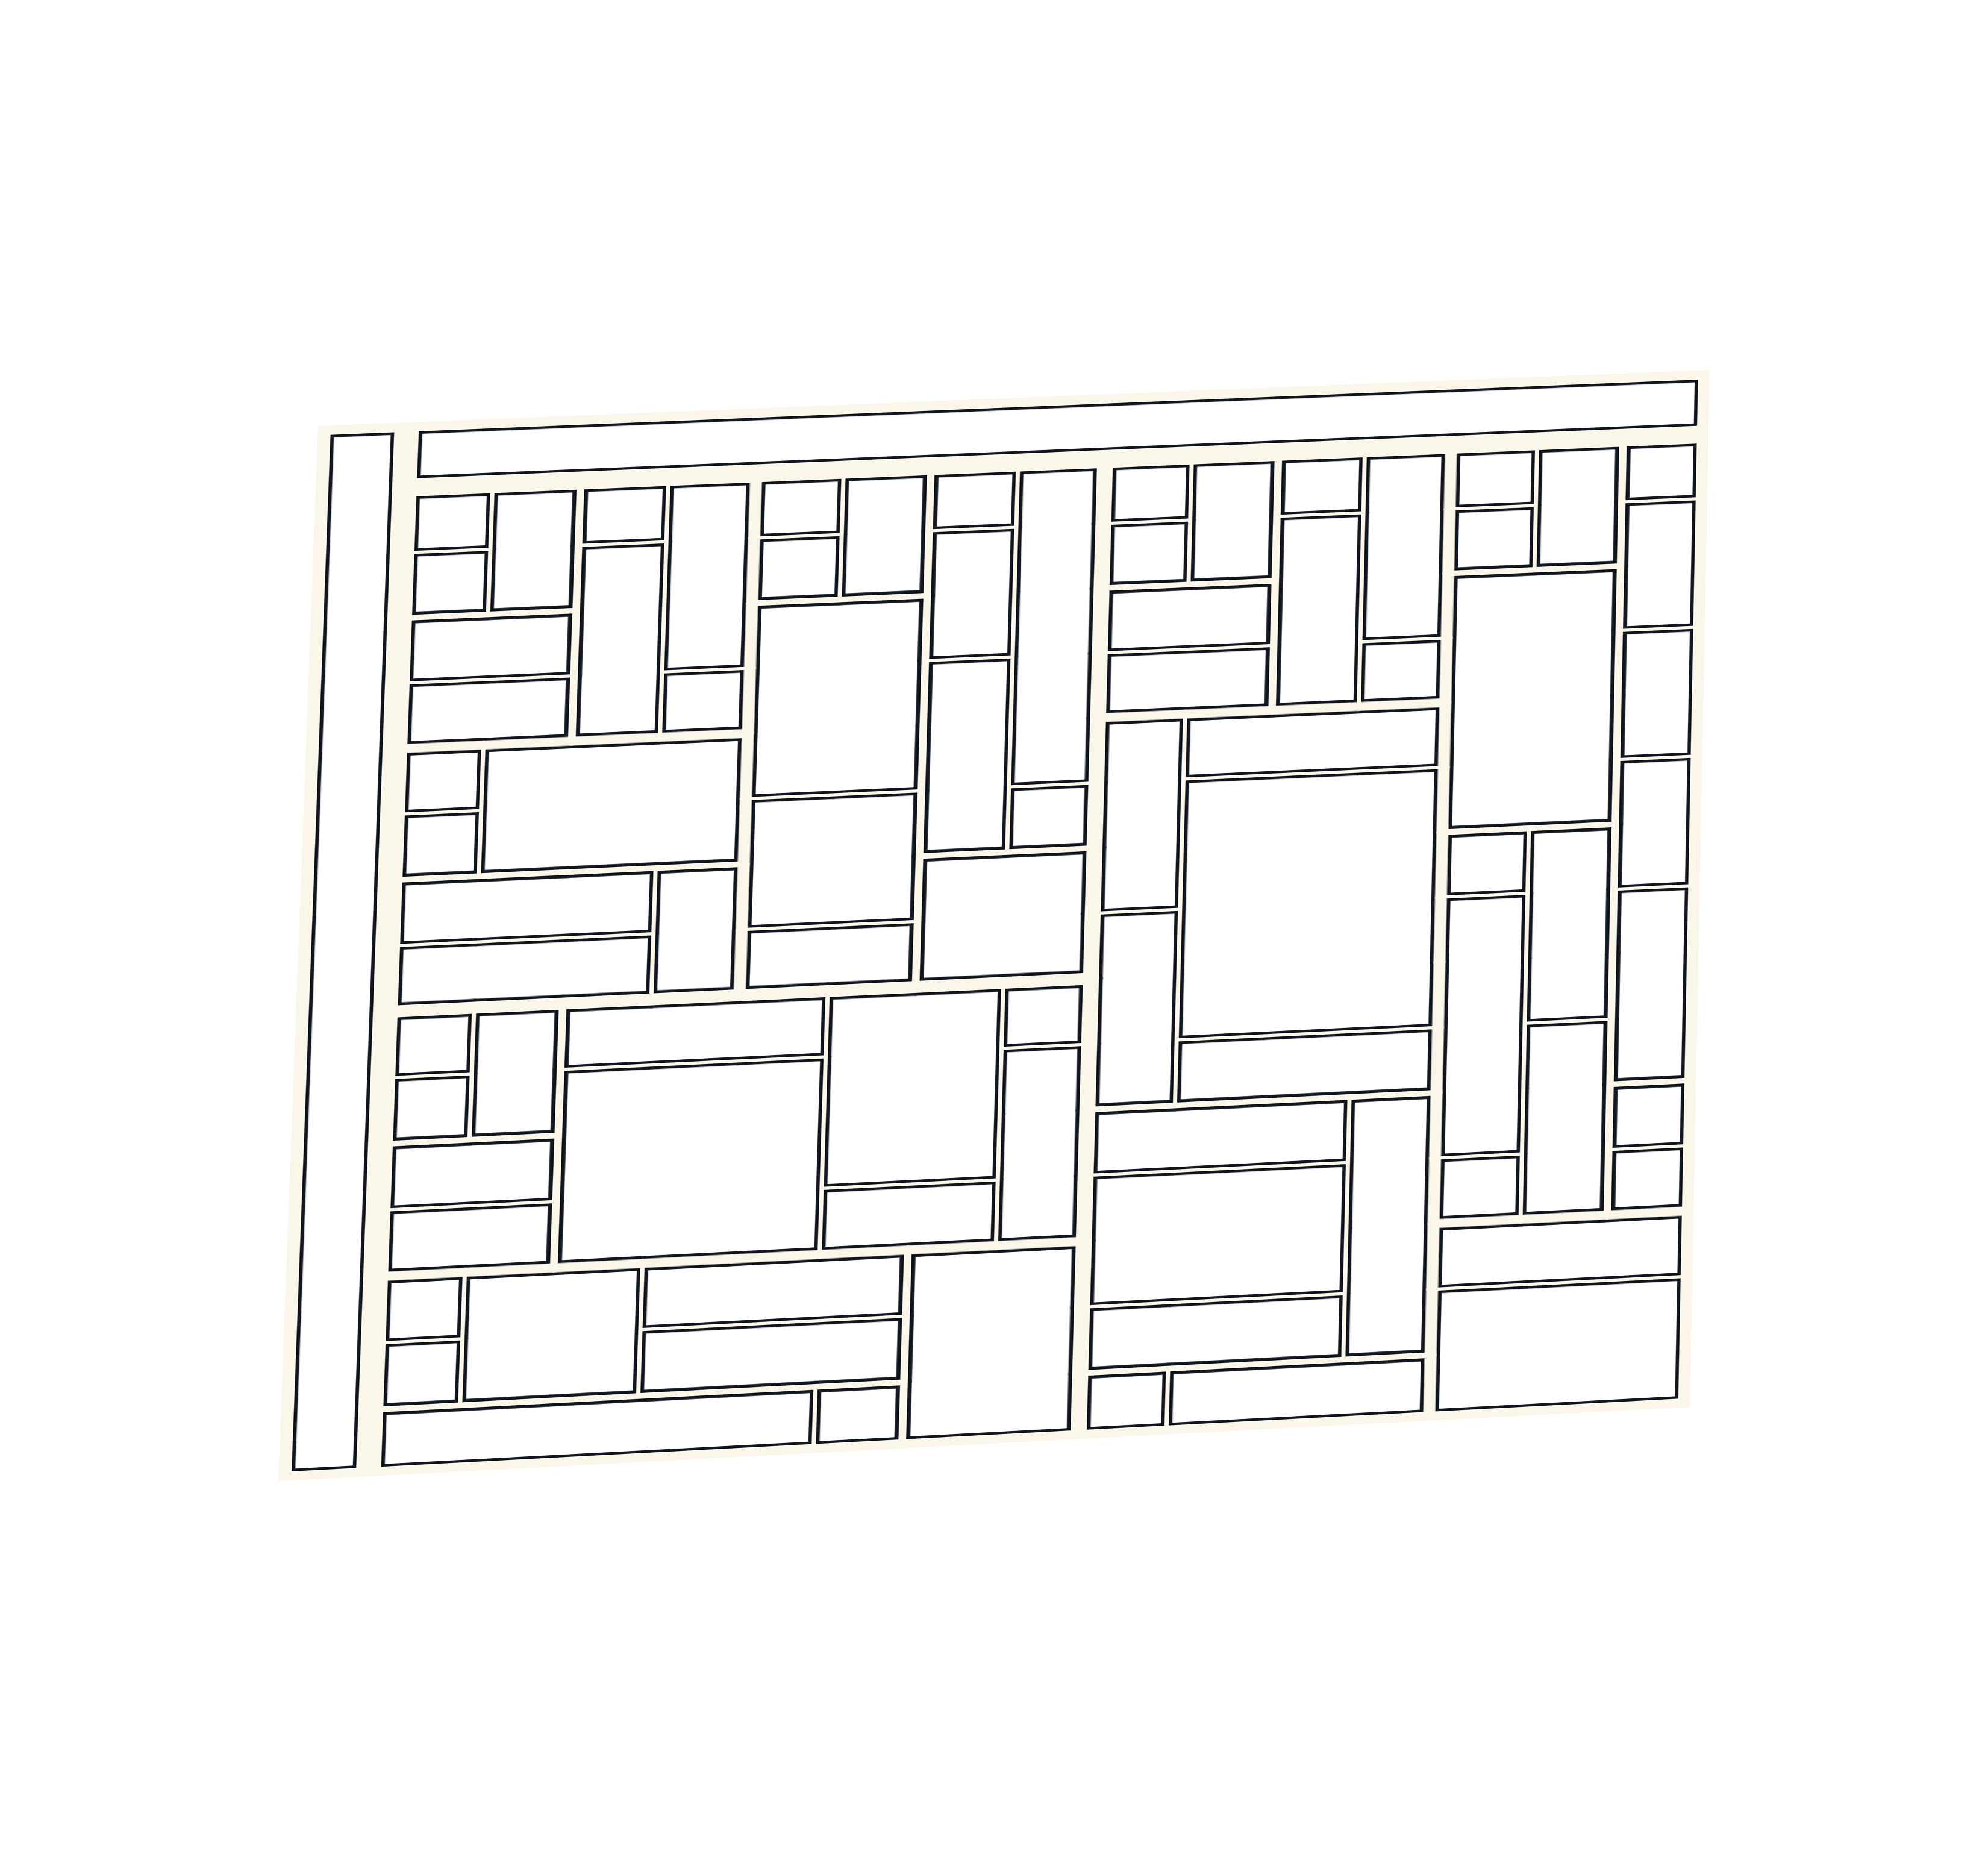
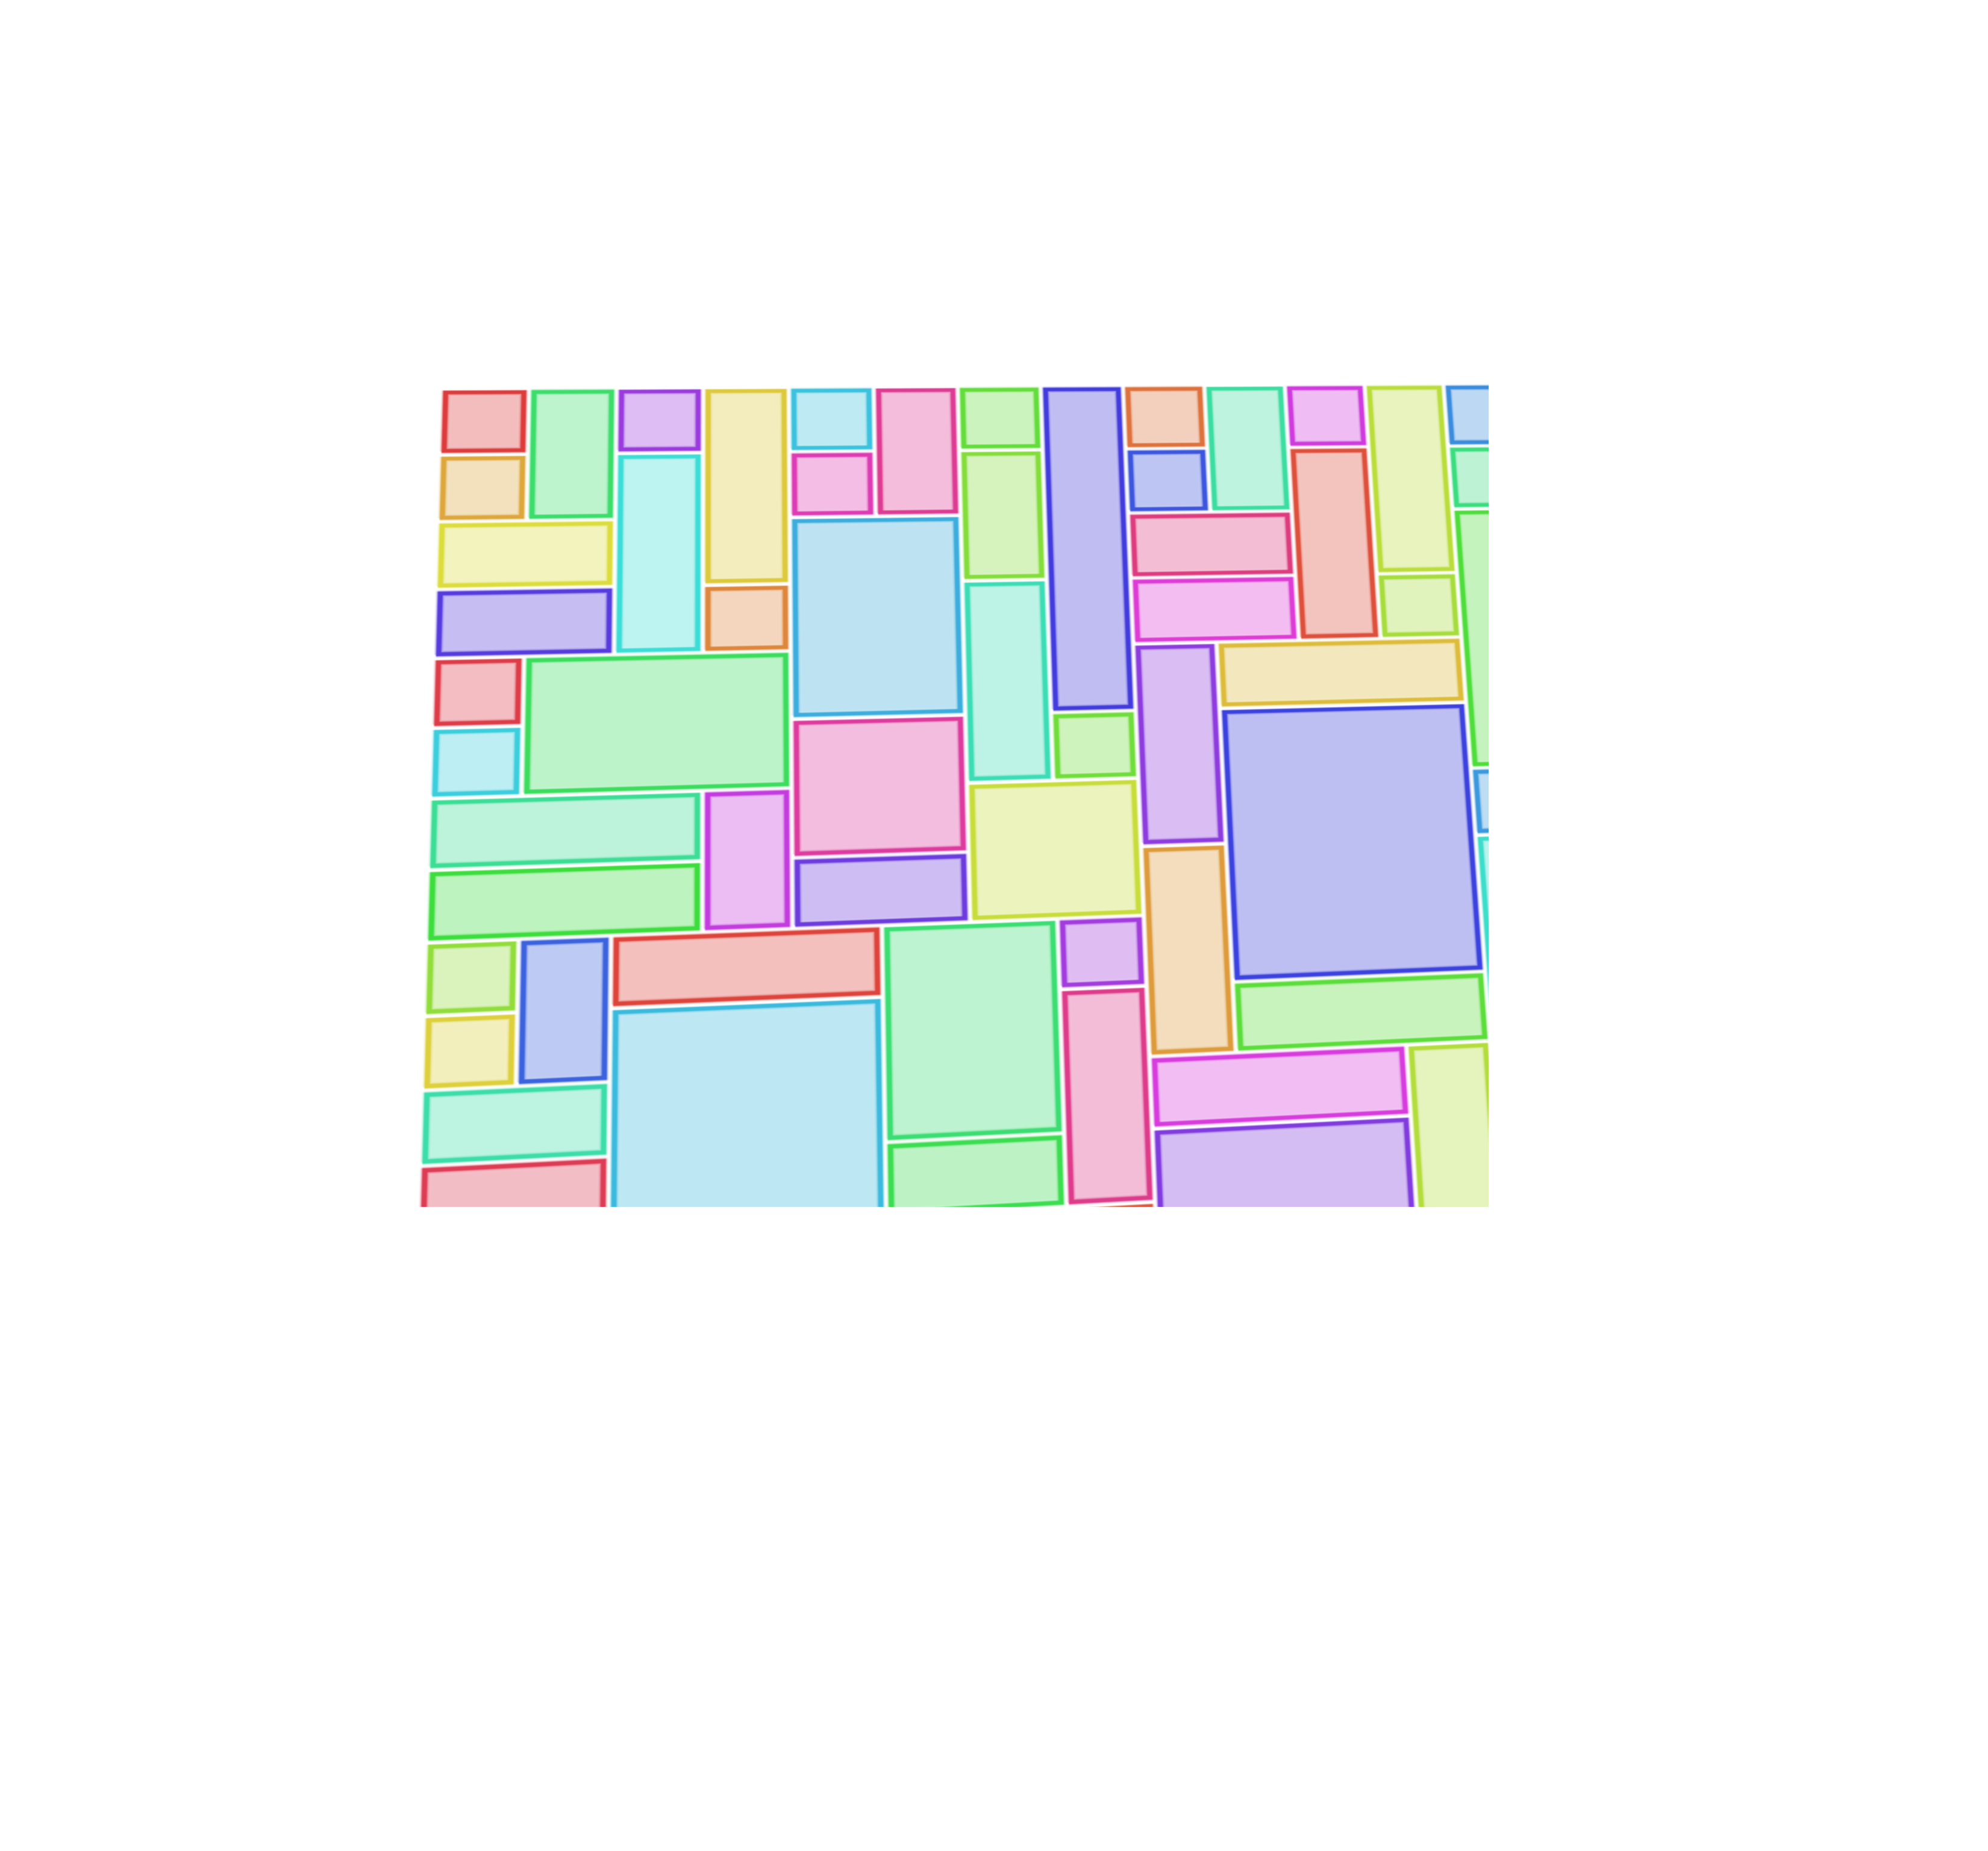
history/quilt: flat-photo dissection page + colored 91-patch overlay
The quilt is exactly a 16x16 canonical Coylean square. Validated against a
new flat, head-on photo (coylean-quilt-doc.png): warping the engine-generated
square (fromUniverseExtents 1,1,16,16, seed margin + result arrows suppressed,
full border) onto its corners lines up cell-for-cell, and region-labeling the
map yields 91 patches, every one a perfect rectangle.

- New coylean-quilt-dissected.html: flat photo with a pure-CSS dissection
  toggle (just the quilt -> trace the seams -> the whole map).
- "look closer" hint link by the breadcrumbs on the sofa page.
- Sofa reveal now shows the 91 patches colored + outlined (replaces the line
  overlay), warped onto the draped photo.

Changed region(s): [[0.1873, 0.1875, 0.8427, 0.7812], [0.8115, 0.4688, 0.8427, 0.5], [0.8115, 0.4062, 0.8427, 0.4375]]

diff --git a/history/coylean-quilt-dissected.html b/history/coylean-quilt-dissected.html
@@ -1,0 +1,225 @@
+<!DOCTYPE html>
+<html lang="en">
+<head>
+    <meta charset="UTF-8" />
+    <meta name="viewport" content="width=device-width, initial-scale=1.0" />
+    <title>The Quilt, Dissected ✦</title>
+    <link rel="icon" type="image/png" href="../map-icon.png" />
+    <link rel="preconnect" href="https://fonts.googleapis.com" />
+    <link rel="preconnect" href="https://fonts.gstatic.com" crossorigin />
+    <link
+        href="https://fonts.googleapis.com/css2?family=Cormorant+Garamond:ital,wght@0,400;0,500;1,400&family=Great+Vibes&family=Parisienne&display=swap"
+        rel="stylesheet" />
+    <style>
+        :root {
+            --rose: #d98aa6;
+            --rose-deep: #b85c7e;
+            --wine: #7a2f49;
+            --gold: #caa14a;
+            --gold-soft: #e8cf8e;
+            --cream: #fff8f1;
+            --ink: #4a3640;
+            --paper: #f7f1ea;
+        }
+        * { margin: 0; padding: 0; box-sizing: border-box; }
+        html { scroll-behavior: smooth; }
+        body {
+            min-height: 100vh;
+            font-family: 'Cormorant Garamond', Georgia, serif;
+            color: var(--ink);
+            background:
+                radial-gradient(1100px 650px at 50% -10%, #f3e7ef 0%, transparent 60%),
+                linear-gradient(165deg, #f7f1ea 0%, #efe6dc 100%);
+            display: flex;
+            flex-direction: column;
+            align-items: center;
+            padding: 2.4rem 1.25rem 5rem;
+        }
+
+        .wrap { width: 100%; max-width: 820px; display: flex; flex-direction: column; align-items: center; }
+
+        .crumb {
+            font-family: Georgia, serif;
+            font-size: 0.9rem;
+            color: var(--rose-deep);
+            margin-bottom: 1.5rem;
+            letter-spacing: .02em;
+            align-self: flex-start;
+        }
+        .crumb a { color: var(--rose-deep); text-decoration: none; border-bottom: 1px dotted var(--rose); }
+        .crumb a:hover { color: var(--wine); }
+
+        .eyebrow {
+            font-family: 'Parisienne', cursive;
+            font-size: 1.4rem;
+            color: var(--rose-deep);
+            margin-bottom: -0.3rem;
+            text-align: center;
+        }
+        h1 {
+            font-family: 'Great Vibes', cursive;
+            font-weight: 400;
+            font-size: clamp(2.6rem, 8vw, 4.4rem);
+            line-height: 1.05;
+            color: var(--wine);
+            text-shadow: 0 2px 0 #fff, 0 6px 16px rgba(122, 47, 73, .18);
+            text-align: center;
+        }
+        .lede {
+            max-width: 40rem;
+            text-align: center;
+            font-size: 1.22rem;
+            line-height: 1.7;
+            margin: 1rem 0 1.8rem;
+        }
+        .lede code {
+            font-family: 'Cormorant Garamond', serif;
+            font-style: italic;
+            color: var(--wine);
+            font-size: 1.08em;
+        }
+
+        /* ── the plate ── */
+        .plate {
+            position: relative;
+            width: 100%;
+            padding: 14px;
+            background: var(--cream);
+            border-radius: 6px;
+            box-shadow:
+                0 22px 54px rgba(74, 54, 64, .22),
+                inset 0 0 0 1px rgba(202, 161, 74, .35);
+        }
+        .stack { position: relative; line-height: 0; border-radius: 3px; overflow: hidden; }
+        .stack img { display: block; width: 100%; height: auto; }
+        .overlay {
+            position: absolute; inset: 0;
+            width: 100%; height: 100%;
+            opacity: 0;
+            transition: opacity .55s ease;
+            pointer-events: none;
+        }
+
+        /* dissection states (pure CSS radios) */
+        .states { position: absolute; width: 0; height: 0; opacity: 0; pointer-events: none; }
+        #st-seams:checked ~ .stack .overlay { opacity: .5; }
+        #st-map:checked   ~ .stack .overlay { opacity: 1; }
+
+        .controls {
+            display: flex;
+            gap: 8px;
+            margin: 1.3rem 0 .2rem;
+            flex-wrap: wrap;
+            justify-content: center;
+        }
+        .controls label {
+            font-family: 'Parisienne', cursive;
+            font-size: 1.25rem;
+            color: var(--rose-deep);
+            cursor: pointer;
+            padding: 4px 16px;
+            border-radius: 999px;
+            border: 1px solid transparent;
+            user-select: none;
+            transition: all .2s;
+        }
+        .controls label:hover { color: var(--wine); }
+        /* highlight the active state's label */
+        #st-photo:checked ~ .controls label[for="st-photo"],
+        #st-seams:checked ~ .controls label[for="st-seams"],
+        #st-map:checked   ~ .controls label[for="st-map"] {
+            color: var(--wine);
+            border-color: var(--gold);
+            background: rgba(202, 161, 74, .12);
+        }
+
+        .note {
+            max-width: 42rem;
+            text-align: center;
+            font-size: 1.08rem;
+            line-height: 1.7;
+            color: var(--ink);
+            margin-top: 1.8rem;
+            font-style: italic;
+        }
+        .note b { font-style: normal; color: var(--wine); }
+        .legend {
+            margin-top: 1.5rem;
+            font-size: 1rem;
+            color: var(--rose-deep);
+            text-align: center;
+            line-height: 1.7;
+        }
+        .legend span { white-space: nowrap; }
+        .tiny { margin-top: 2.4rem; font-size: .92rem; font-style: italic; color: var(--rose-deep); opacity: .8; text-align: center; }
+        .back { margin-top: 1.6rem; }
+        .back a {
+            font-family: 'Parisienne', cursive;
+            font-size: 1.4rem;
+            color: var(--wine);
+            text-decoration: none;
+            border-bottom: 1px dotted var(--rose);
+        }
+        .back a:hover { color: var(--rose-deep); }
+    </style>
+</head>
+<body>
+    <div class="wrap">
+        <nav class="crumb">
+            <a href="../">Coylean&nbsp;Map</a> &nbsp;·&nbsp;
+            <a href="index.html">History</a> &nbsp;·&nbsp;
+            <a href="coylean-quilt.html">The&nbsp;Quilt</a> &nbsp;·&nbsp; Dissected
+        </nav>
+
+        <div class="eyebrow">a closer look</div>
+        <h1>The Quilt, Dissected</h1>
+
+        <p class="lede">
+            Laid flat, the quilt is exactly a <code>16&times;16</code> canonical
+            Coylean square. Every patch is one of its rectangles — and the seams
+            between them are the map's own lines. Fade the overlay in to watch the
+            pattern surface.
+        </p>
+
+        <div class="plate">
+            <!-- pure-CSS dissection state -->
+            <input type="radio" name="st" id="st-photo" class="states" checked />
+            <input type="radio" name="st" id="st-seams" class="states" />
+            <input type="radio" name="st" id="st-map"   class="states" />
+
+            <div class="stack">
+                <img src="coylean-quilt-doc.png"
+                     alt="The Coylean quilt, photographed flat and head-on." />
+                <img src="coylean-quilt-doc-overlay.png" class="overlay"
+                     alt="The 16×16 Coylean map traced over the quilt's patches." />
+            </div>
+
+            <div class="controls">
+                <label for="st-photo">just the quilt</label>
+                <label for="st-seams">trace the seams</label>
+                <label for="st-map">the whole map</label>
+            </div>
+        </div>
+
+        <p class="note">
+            The cream lines are generated straight from the engine —
+            <b>fromUniverseExtents(north 1, west 1, south 16, east 16)</b>, the
+            clean interior square with the seed margin and result arrows removed.
+            Where a line drifts from a seam, that's the quilt's own handmade grace,
+            not the map's.
+        </p>
+
+        <p class="legend">
+            <span>◻ a single cell = one segment</span> &nbsp;·&nbsp;
+            <span>▭ bigger patches = merged rectangles</span> &nbsp;·&nbsp;
+            <span>the border frames the whole square</span>
+        </p>
+
+        <div class="back">
+            <a href="coylean-quilt.html">← back to the quilt ♥</a>
+        </div>
+
+        <p class="tiny">For her — every seam a small act of love.</p>
+    </div>
+</body>
+</html>

diff --git a/history/coylean-quilt.html b/history/coylean-quilt.html
@@ -66,6 +66,14 @@
         }
         .crumb a { color: var(--rose-deep); text-decoration: none; border-bottom: 1px dotted var(--rose); }
         .crumb a:hover { color: var(--wine); }
+        .crumb-hint {
+            font-family: 'Parisienne', cursive;
+            font-size: 1.05rem;
+            color: var(--gold) !important;
+            border-bottom: none !important;
+            opacity: .85;
+        }
+        .crumb-hint:hover { color: var(--rose-deep) !important; opacity: 1; }
 
         .eyebrow {
             font-family: 'Parisienne', cursive;
@@ -211,6 +219,9 @@
         <nav class="crumb">
             <a href="../">Coylean&nbsp;Map</a> &nbsp;·&nbsp;
             <a href="index.html">History</a> &nbsp;·&nbsp; The&nbsp;Quilt
+            &nbsp;·&nbsp;
+            <a href="coylean-quilt-dissected.html" class="crumb-hint"
+               >look closer&nbsp;✦</a>
         </nav>
 
         <div class="eyebrow">made with love</div>
@@ -227,11 +238,11 @@
                 <img src="coylean-quilt.MP.jpg"
                      alt="A handmade quilt of the Coylean map, sewn by my wife." />
                 <img src="coylean-quilt-overlay.png" class="patch-overlay"
-                     alt="The 16×16 Coylean map drawn over the quilt's patches." />
+                     alt="The 91 Coylean patches, colored over the quilt." />
             </div>
         </figure>
 
-        <label for="patch-toggle" class="patch-toggle">show the 16×16 map ♥</label>
+        <label for="patch-toggle" class="patch-toggle">show the 91 patches ♥</label>
 
         <div class="dedication">
             <p class="lead">